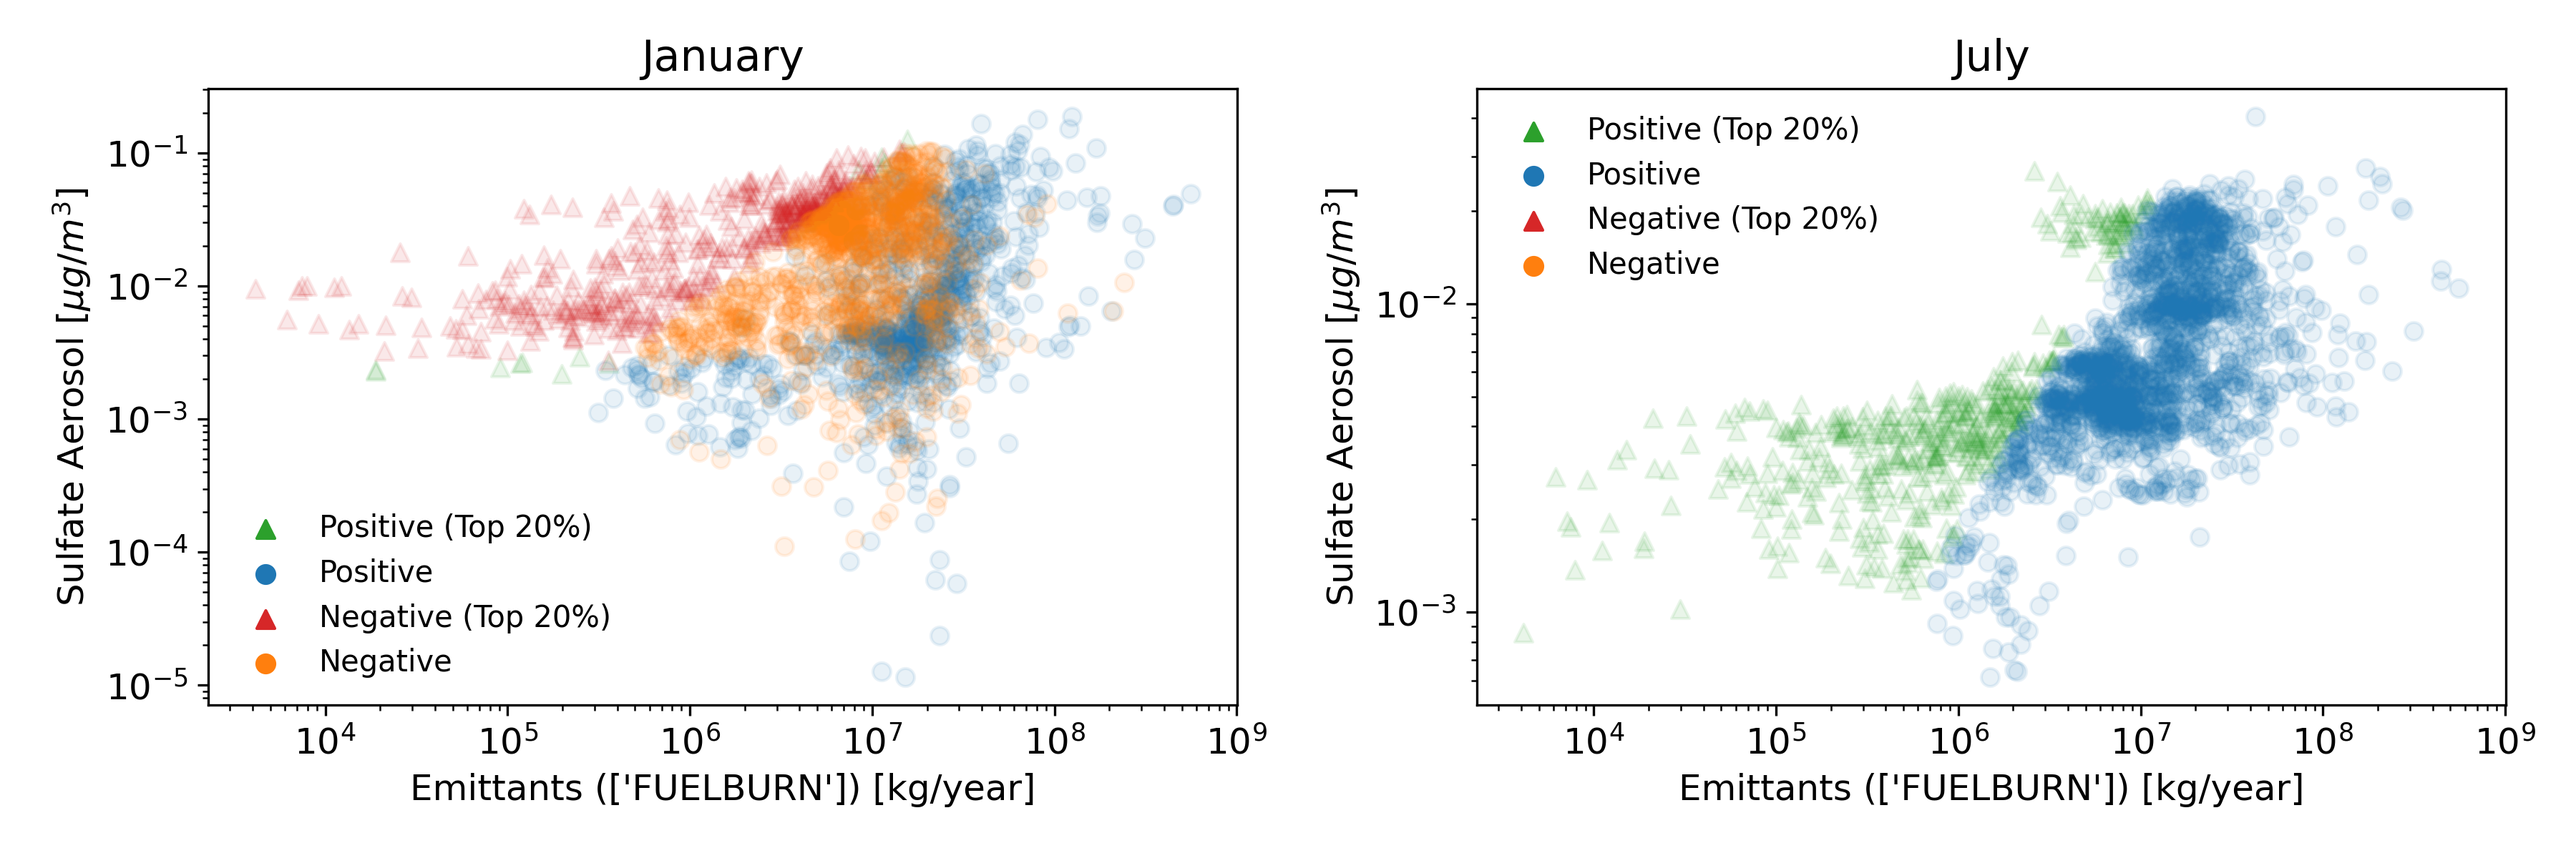
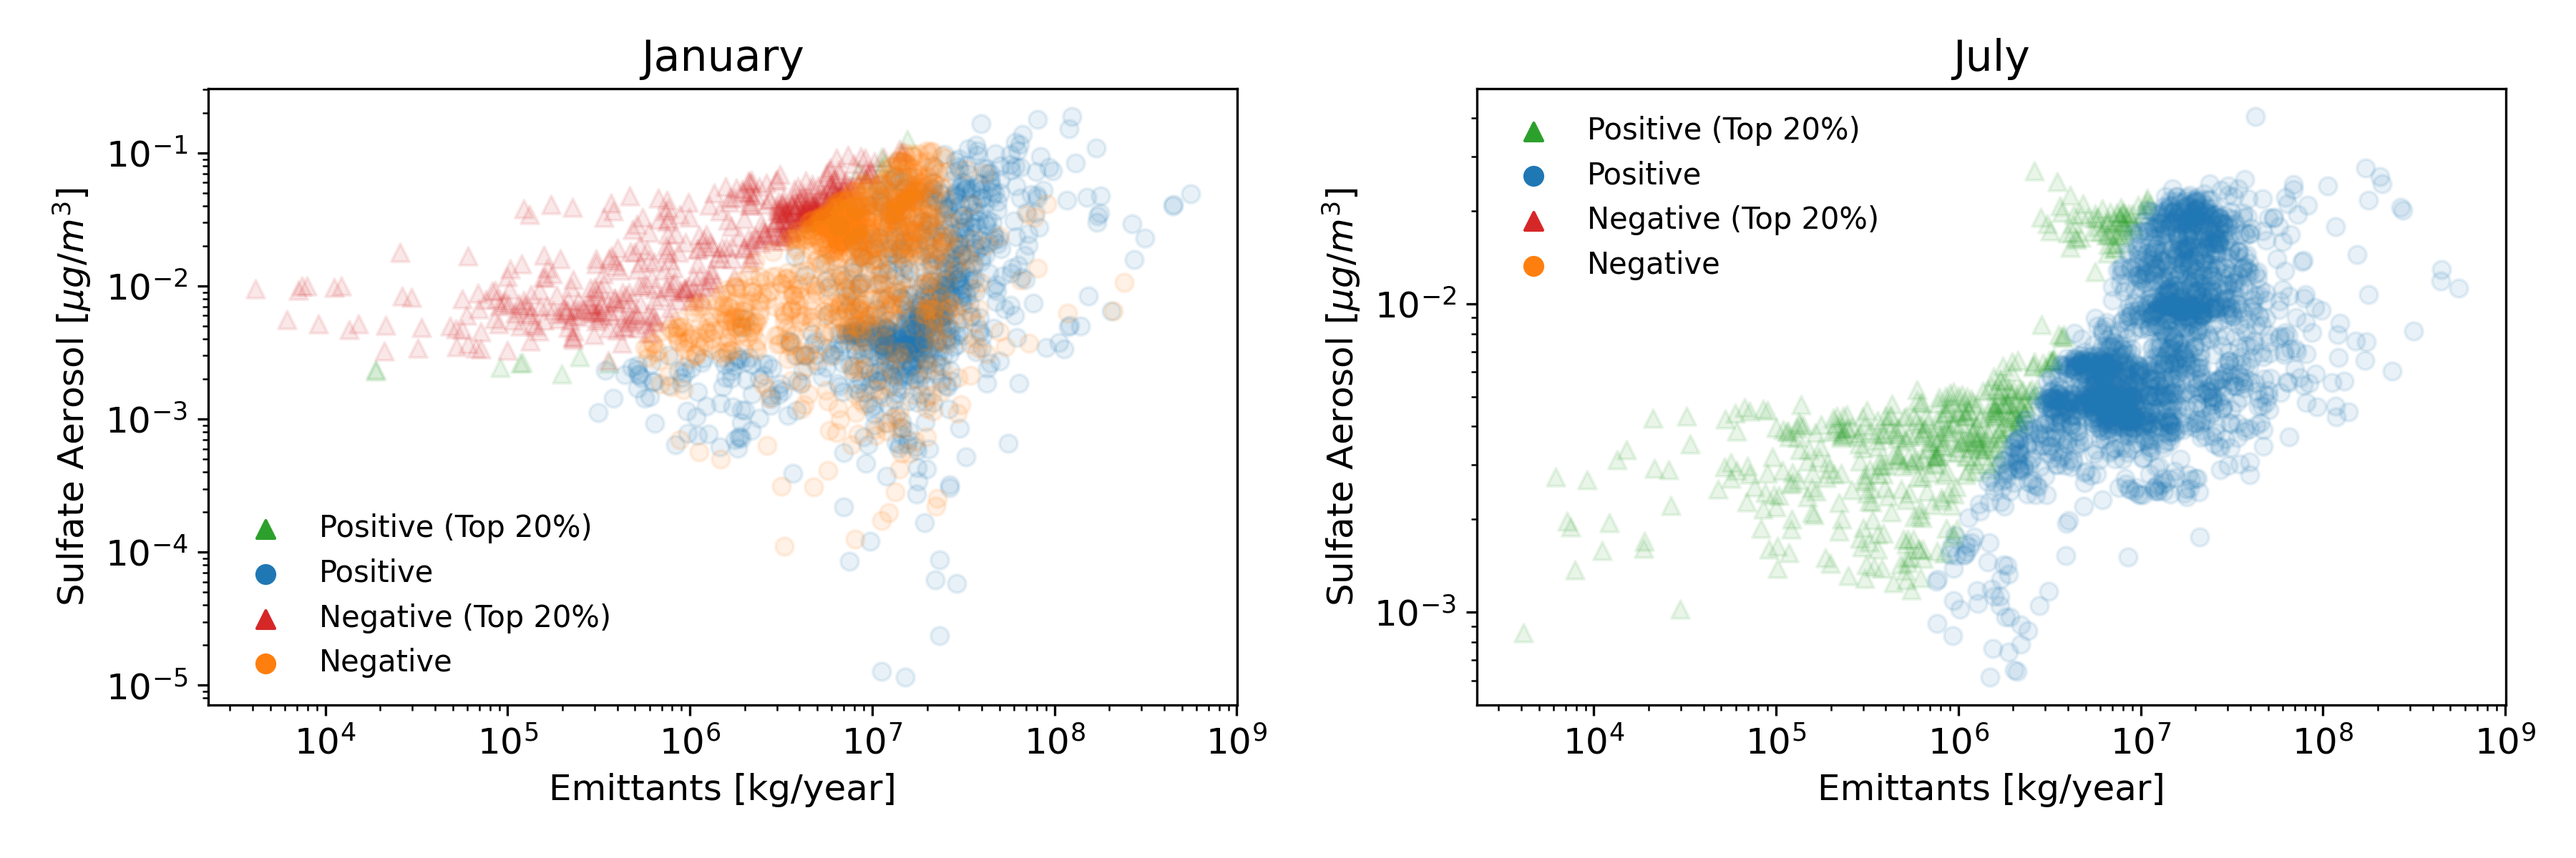
changed scatter fig axes titles

Changed region(s): [[0.1556, 0.8942, 0.4044, 0.9558], [0.6533, 0.8942, 0.9022, 0.9558]]

diff --git a/division_processing/scatter_log_europe.py b/division_processing/scatter_log_europe.py
@@ -172,7 +172,7 @@ for type_, vars in types.items():
             ax[i].scatter(top_neg_sens_emittants, top_neg_sens_pollutants, color='tab:red', alpha=0.1, label= f"Negative ({ifpercen})", marker="^")
             ax[i].scatter(peasant_neg_sens_emittants, peasant_neg_sens_pollutants, color='tab:orange', alpha=0.1, label= "Negative")
             # ax[i].set_title(f"{var}, monthly average {month}", fontsize=14)
-            ax[i].set_xlabel(f"Emittants ({emittants}) [kg/year]")
+            ax[i].set_xlabel(r"Emittants [kg/year]")
             ax[i].set_ylabel(name + r' [$\mu g /  m^3$]')
             ax[i].set_xscale('log')
             ax[i].set_yscale('log')
